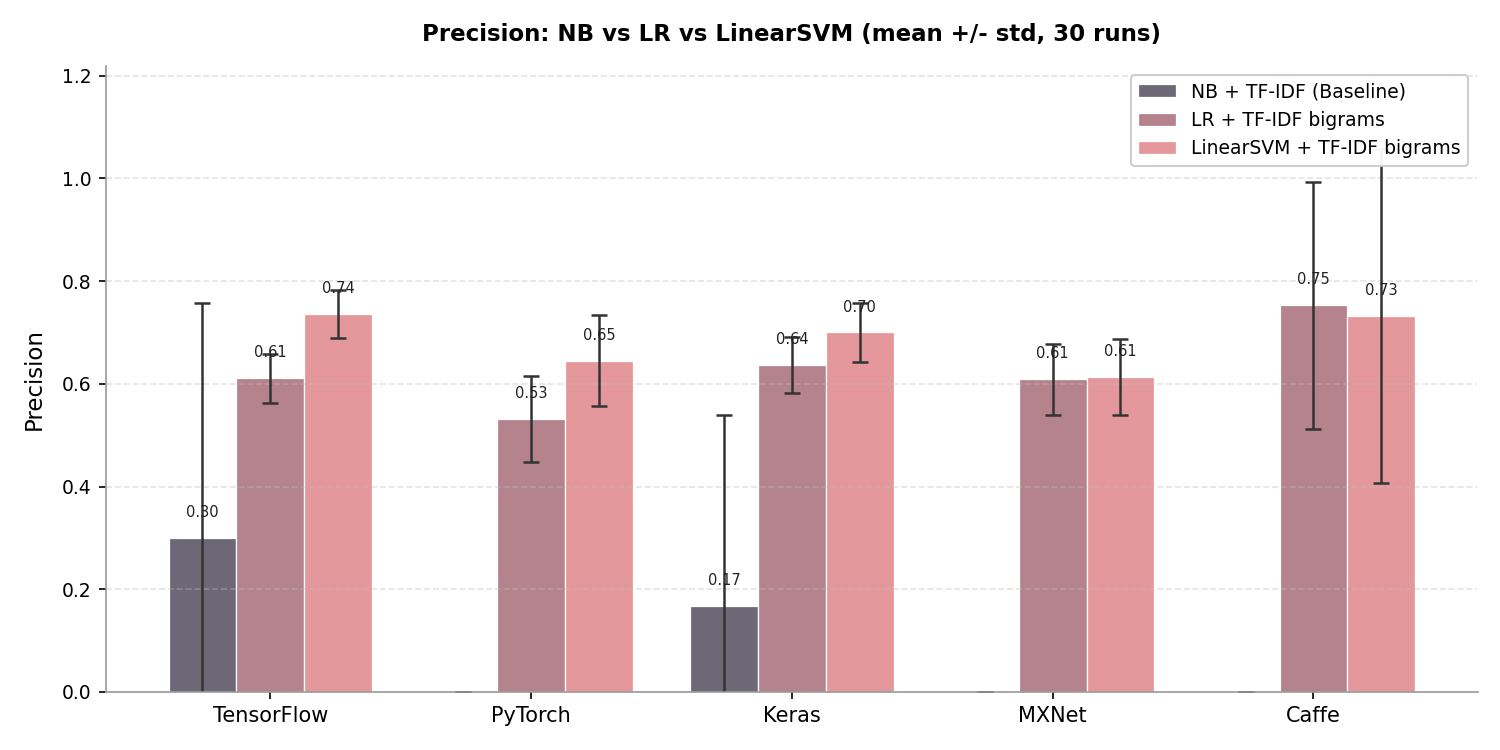
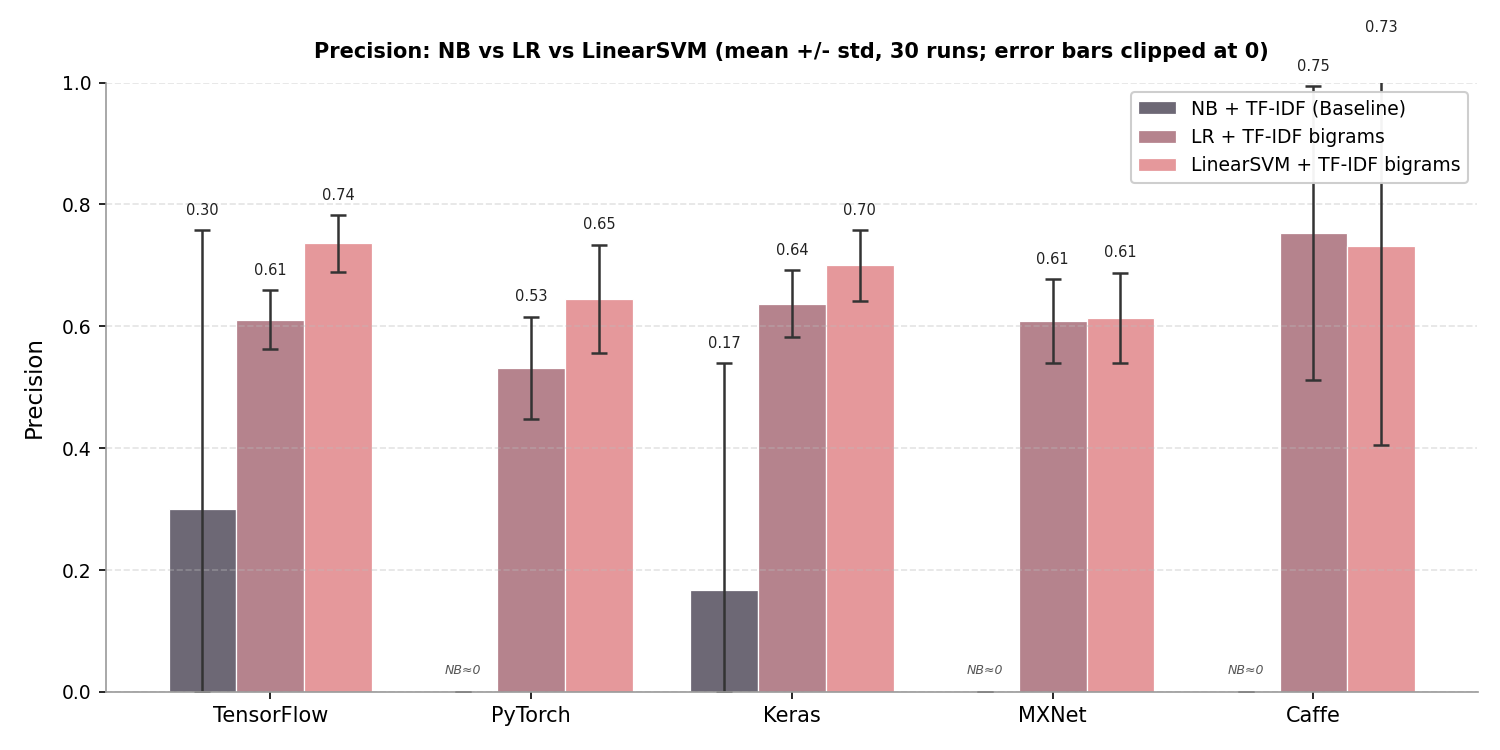
Fix chart issues: clipped error bars, NB annotations, tighter y-axis

diff --git a/experiment.py b/experiment.py
@@ -127,13 +127,18 @@ def plot_results(summary_rows):
     CAPSIZE  = 4
 
     for metric in METRICS:
-        nb_means  = [float(r[f'NB {metric}'].split(' ')[0])                   for r in summary_rows]
-        lr_means  = [float(r[f'LR {metric}'].replace('*','').split(' ')[0])   for r in summary_rows]
-        svm_means = [float(r[f'SVM {metric}'].replace('*','').split(' ')[0])  for r in summary_rows]
+        nb_means  = np.array([float(r[f'NB {metric}'].split(' ')[0])                   for r in summary_rows])
+        lr_means  = np.array([float(r[f'LR {metric}'].replace('*','').split(' ')[0])   for r in summary_rows])
+        svm_means = np.array([float(r[f'SVM {metric}'].replace('*','').split(' ')[0])  for r in summary_rows])
 
-        nb_stds   = [float(r[f'NB {metric}'].split('± ')[1])                  for r in summary_rows]
-        lr_stds   = [float(r[f'LR {metric}'].replace('*','').split('± ')[1])  for r in summary_rows]
-        svm_stds  = [float(r[f'SVM {metric}'].replace('*','').split('± ')[1]) for r in summary_rows]
+        nb_stds   = np.array([float(r[f'NB {metric}'].split('± ')[1])                  for r in summary_rows])
+        lr_stds   = np.array([float(r[f'LR {metric}'].replace('*','').split('± ')[1])  for r in summary_rows])
+        svm_stds  = np.array([float(r[f'SVM {metric}'].replace('*','').split('± ')[1]) for r in summary_rows])
+
+        # Clip error bars so they never extend below zero
+        nb_err  = [np.minimum(nb_stds,  nb_means),  nb_stds]
+        lr_err  = [np.minimum(lr_stds,  lr_means),  lr_stds]
+        svm_err = [np.minimum(svm_stds, svm_means), svm_stds]
 
         fig, ax = plt.subplots(figsize=(10, 5))
         fig.patch.set_facecolor('white')
@@ -141,29 +146,35 @@ def plot_results(summary_rows):
 
         err_kw = dict(elinewidth=1.2, ecolor='#333333', capsize=CAPSIZE, capthick=1.2)
 
-        bars1 = ax.bar(x - width, nb_means,  width, yerr=nb_stds,  label=LABELS[0],
-                       color=COLORS[0], edgecolor='white', linewidth=0.6,
-                       error_kw=err_kw)
-        bars2 = ax.bar(x,         lr_means,  width, yerr=lr_stds,  label=LABELS[1],
-                       color=COLORS[1], edgecolor='white', linewidth=0.6,
-                       error_kw=err_kw)
-        bars3 = ax.bar(x + width, svm_means, width, yerr=svm_stds, label=LABELS[2],
-                       color=COLORS[2], edgecolor='white', linewidth=0.6,
-                       error_kw=err_kw)
+        bars1 = ax.bar(x - width, nb_means,  width, yerr=nb_err,  label=LABELS[0],
+                       color=COLORS[0], edgecolor='white', linewidth=0.6, error_kw=err_kw)
+        bars2 = ax.bar(x,         lr_means,  width, yerr=lr_err,  label=LABELS[1],
+                       color=COLORS[1], edgecolor='white', linewidth=0.6, error_kw=err_kw)
+        bars3 = ax.bar(x + width, svm_means, width, yerr=svm_err, label=LABELS[2],
+                       color=COLORS[2], edgecolor='white', linewidth=0.6, error_kw=err_kw)
 
-        for bars in (bars1, bars2, bars3):
-            for bar in bars:
-                h = bar.get_height()
-                if h > 0.01:
-                    ax.text(bar.get_x() + bar.get_width() / 2, h + 0.035,
-                            f'{h:.2f}', ha='center', va='bottom', fontsize=7, color='#222222')
+        # Value labels: place above error bar top, annotate near-zero NB bars
+        all_bars  = [(bars1, nb_means,  nb_stds),
+                     (bars2, lr_means,  lr_stds),
+                     (bars3, svm_means, svm_stds)]
+        for bars, means, stds in all_bars:
+            for bar, mean, std in zip(bars, means, stds):
+                top = mean + std
+                if mean > 0.01:
+                    ax.text(bar.get_x() + bar.get_width() / 2, top + 0.02,
+                            f'{mean:.2f}', ha='center', va='bottom', fontsize=7, color='#222222')
+                else:
+                    ax.text(bar.get_x() + bar.get_width() / 2, 0.025,
+                            'NB≈0', ha='center', va='bottom', fontsize=6,
+                            color='#555555', style='italic')
 
+        max_val = max(np.max(lr_means + lr_stds), np.max(svm_means + svm_stds))
+        ax.set_ylim(0, min(max_val + 0.18, 1.0))
         ax.set_ylabel(metric, fontsize=11, labelpad=8)
-        ax.set_title(f'{metric}: NB vs LR vs LinearSVM (mean ± std, 30 runs)',
-                     fontsize=11, fontweight='bold', pad=12)
+        ax.set_title(f'{metric}: NB vs LR vs LinearSVM (mean ± std, 30 runs; error bars clipped at 0)',
+                     fontsize=10, fontweight='bold', pad=12)
         ax.set_xticks(x)
         ax.set_xticklabels(projects, fontsize=10)
-        ax.set_ylim(0, 1.22)
         ax.yaxis.set_tick_params(labelsize=9)
         for spine in ['top', 'right']:
             ax.spines[spine].set_visible(False)
